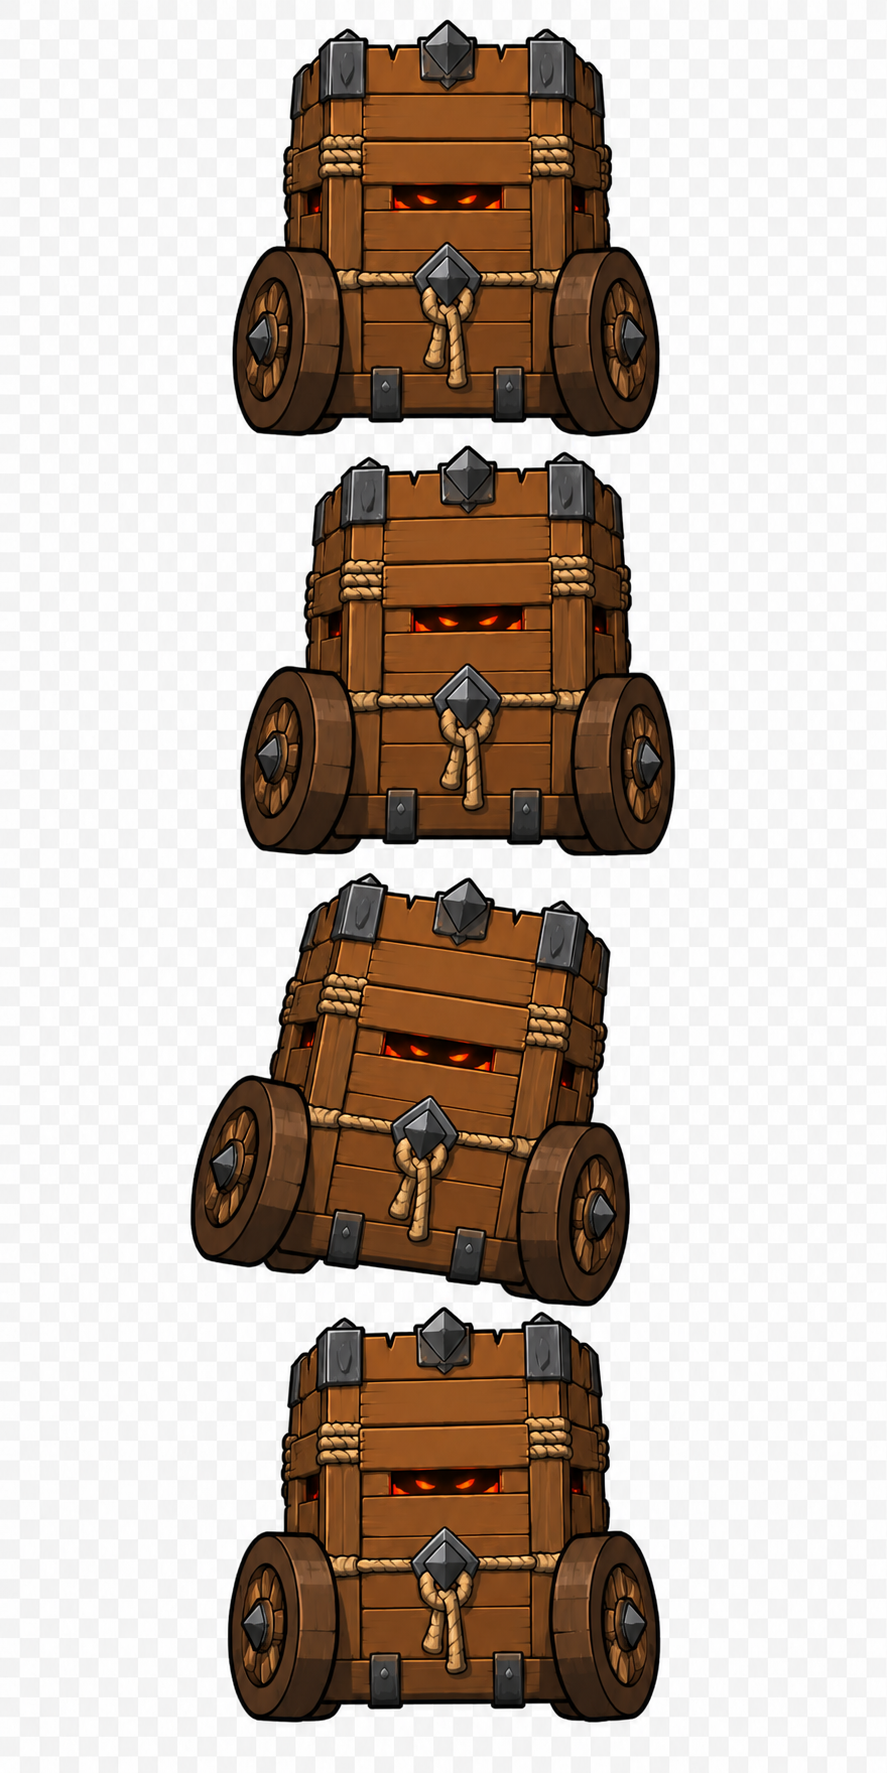
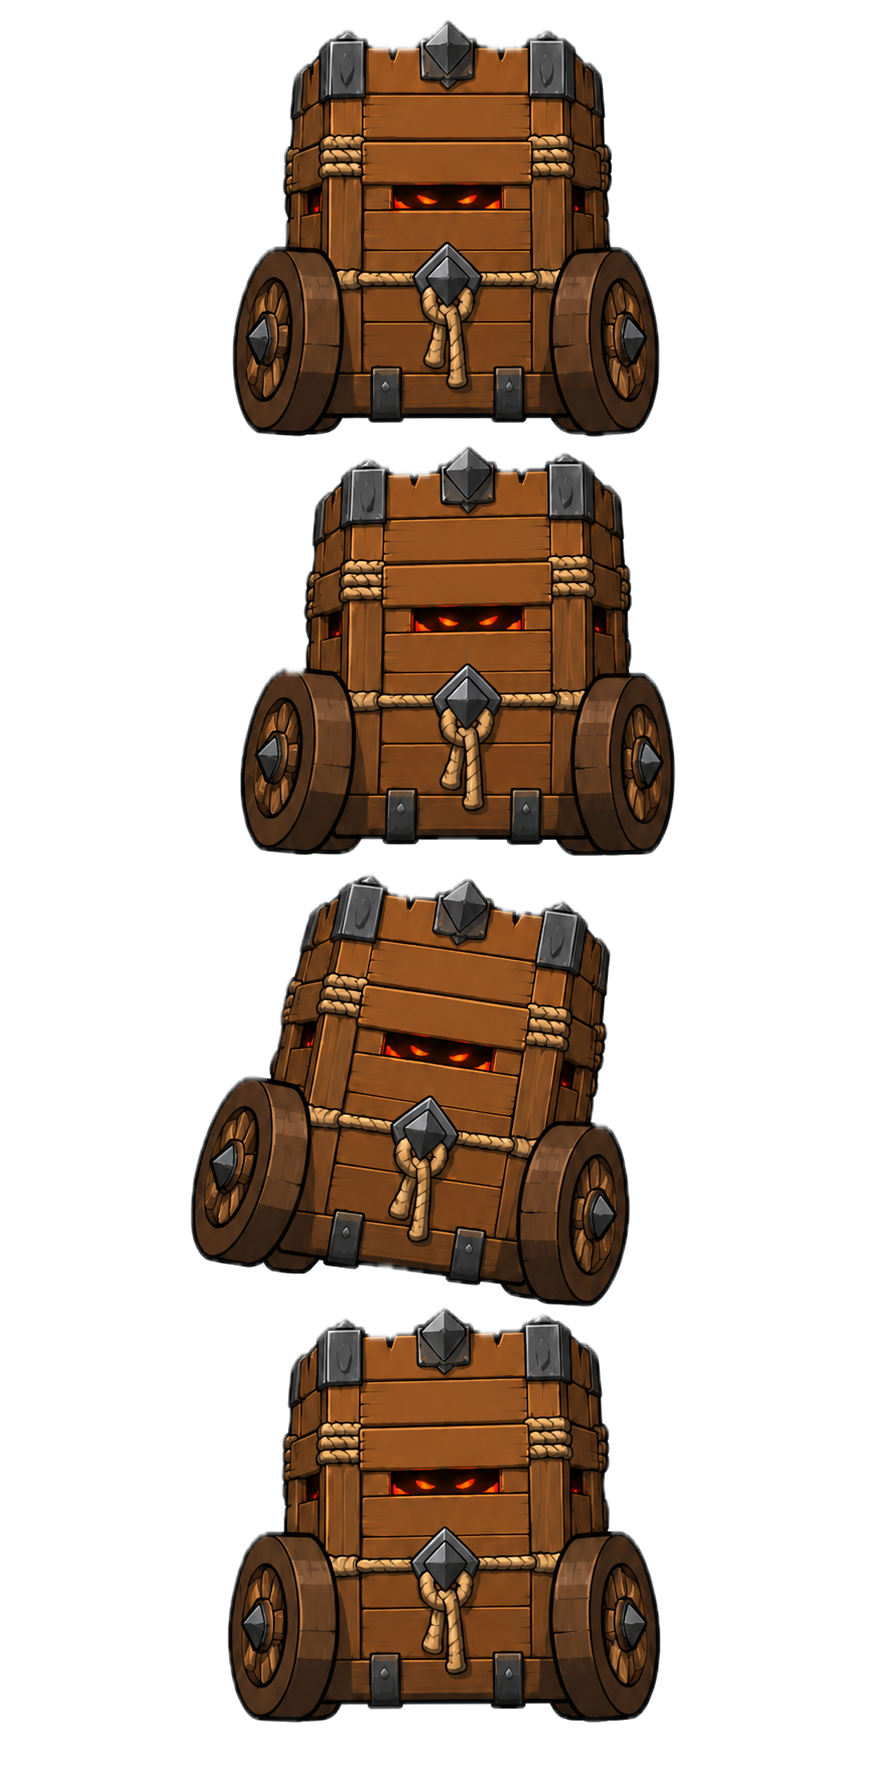
fix: wave 10 uses single center lane for boss, update trojan sprite, zigzag extends to wave 10

diff --git a/src/battle/types.ts b/src/battle/types.ts
@@ -24,14 +24,14 @@ export const ZIGZAG_WAYPOINTS: [number, number][] = [
 ]
 
 export function isZigzagWave(wave: number): boolean {
-  return wave >= 5 && wave <= 9
+  return wave >= 5 && wave <= 10
 }
 
 // ── Triple-lane layout (waves 10–11) ────────────────────────────────────────
 export const TRIPLE_LANE_XS = [80, 195, 310] as const
 
 export function isTripleLaneWave(wave: number): boolean {
-  return wave >= 10 && wave <= 11
+  return wave === 11  // wave 10 is boss wave — single center lane
 }
 
 // ── Diamond split-merge path (waves 12–13) ──────────────────────────────────